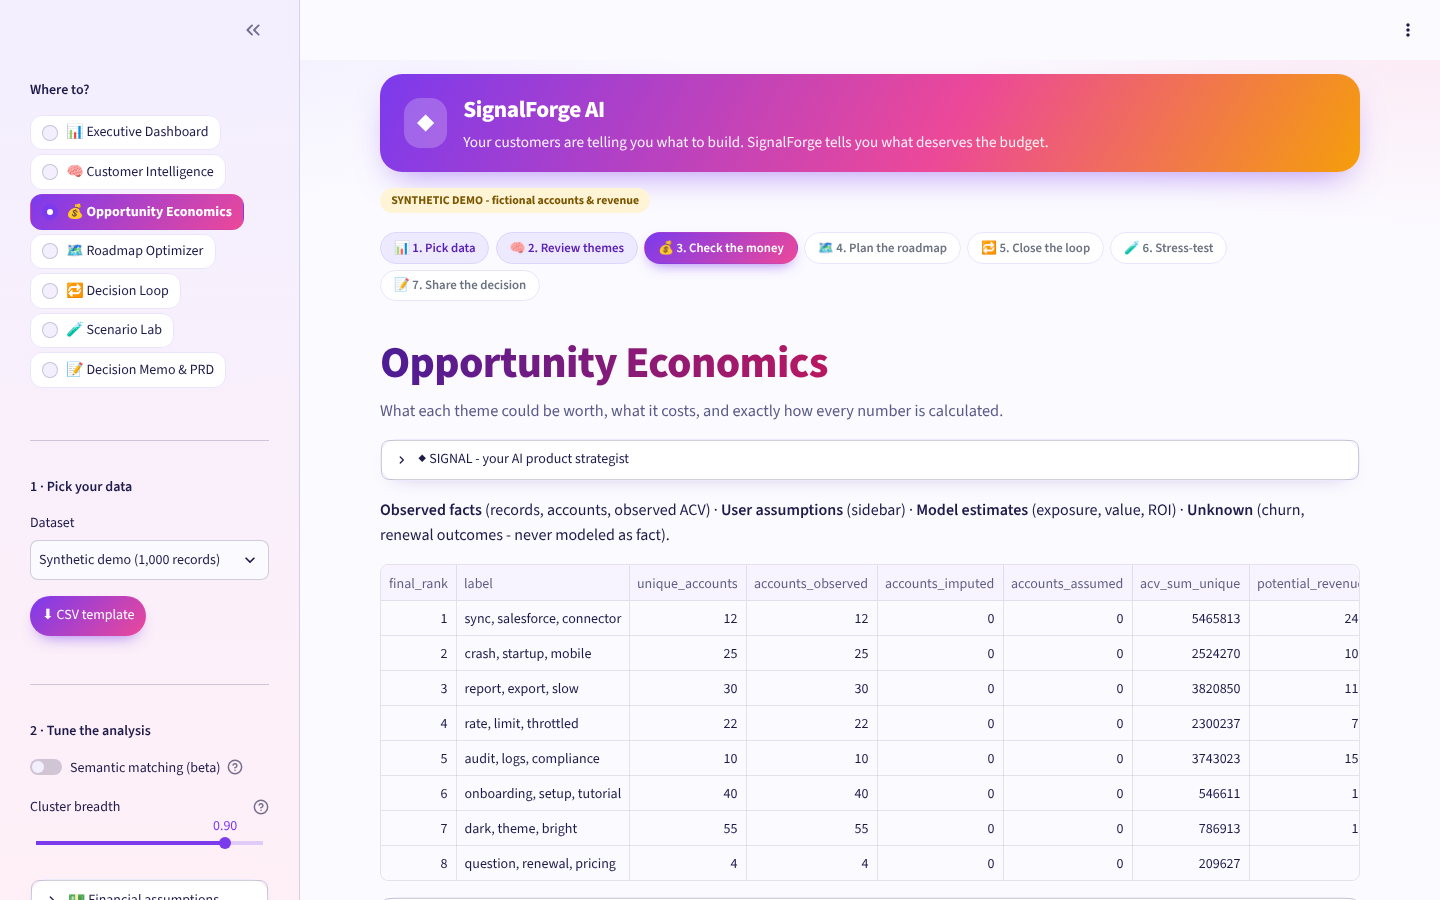
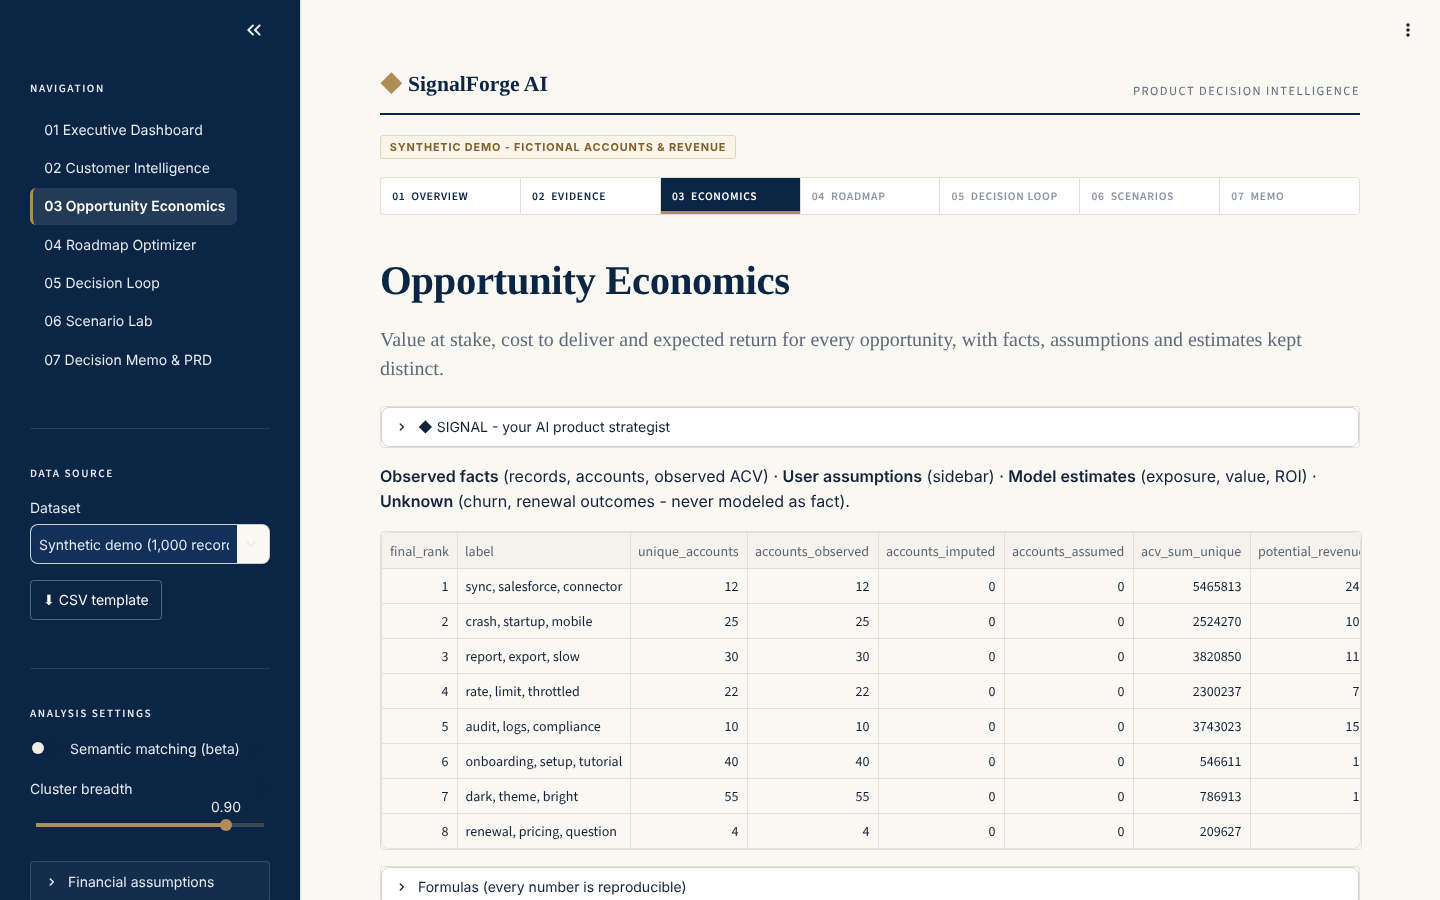
Executive UI: navy/ivory theme, serif headlines, numbered navigation, boardroom copy
Claude-Session: https://claude.ai/code/session_019GsoMYbqVDgoHLZQSKVKYG

diff --git a/app.py b/app.py
@@ -41,67 +41,88 @@ from signalforge.store import Store, StoreError, new_workspace_id, valid_workspa
 from signalforge.synthetic import generate
 
 st.set_page_config(page_title="SignalForge AI", page_icon="◆", layout="wide")
-POP = ["#7c3aed", "#ec4899", "#f59e0b", "#14b8a6", "#3b82f6", "#22c55e", "#ef4444", "#8b5cf6"]
+POP = ["#0b2545", "#b08d57", "#3e6d9c", "#8da9c4", "#5c7a6b", "#a4508b", "#c0392b", "#6b7280"]
 pio.templates["sf"] = go.layout.Template(layout=dict(
-    colorway=POP, font=dict(family="Inter, -apple-system, Segoe UI, Roboto, sans-serif", color="#1e1b4b"),
-    paper_bgcolor="rgba(0,0,0,0)", plot_bgcolor="rgba(255,255,255,.65)", title=dict(font=dict(size=16)),
-    xaxis=dict(gridcolor="#ede9fe", zerolinecolor="#ddd6fe"), yaxis=dict(gridcolor="#ede9fe", zerolinecolor="#ddd6fe"),
-    legend=dict(bgcolor="rgba(255,255,255,.6)"), margin=dict(l=10, r=10, t=48, b=10)))
+    colorway=POP, font=dict(family="Inter, -apple-system, Segoe UI, Roboto, sans-serif", color="#13233a", size=13),
+    paper_bgcolor="rgba(0,0,0,0)", plot_bgcolor="rgba(0,0,0,0)",
+    title=dict(font=dict(family="Newsreader, Georgia, serif", size=18, color="#0b2545")),
+    xaxis=dict(gridcolor="#e8e4da", zerolinecolor="#d8d2c4", linecolor="#d8d2c4"),
+    yaxis=dict(gridcolor="#e8e4da", zerolinecolor="#d8d2c4", linecolor="#d8d2c4"),
+    legend=dict(bgcolor="rgba(0,0,0,0)"), margin=dict(l=10, r=10, t=52, b=10)))
 pio.templates.default = "plotly_white+sf"
 st.markdown("""<style>
-:root{--p:#7c3aed;--pk:#ec4899;--am:#f59e0b;--tl:#14b8a6;--bl:#3b82f6;--ink:#1e1b4b}
-.stApp{background:radial-gradient(1100px 480px at 8% -8%,#ede9fe 0%,transparent 60%),radial-gradient(900px 420px at 100% 0%,#fce7f3 0%,transparent 55%),#fbfaff}
-.block-container{padding-top:3.6rem;max-width:1360px}
-h1,h2,h3{letter-spacing:-.015em;color:var(--ink)}
-.stApp h1{font-weight:800;background:linear-gradient(90deg,#4c1d95,#be185d);-webkit-background-clip:text;background-clip:text;color:transparent;width:fit-content}
-[data-testid=stSidebar]{background:linear-gradient(180deg,#f3efff 0%,#fff0f7 100%);border-right:1px solid #ede9fe}
-.sf-hero{display:flex;align-items:center;gap:1rem;color:#fff;border-radius:22px;padding:1.1rem 1.5rem;margin:0 0 .9rem;
- background:linear-gradient(120deg,#7c3aed 0%,#ec4899 58%,#f59e0b 100%);box-shadow:0 14px 34px -14px rgba(124,58,237,.6)}
-.sf-logo{font-size:2rem;line-height:1;background:rgba(255,255,255,.22);border-radius:16px;padding:.55rem .75rem}
-.sf-brand{font-size:1.45rem;font-weight:800;letter-spacing:-.02em}.sf-tag{opacity:.93;font-size:.95rem;margin-top:.1rem}
-.sf-steps{display:flex;flex-wrap:wrap;gap:.4rem;margin:.2rem 0 .9rem}
-.sf-step{padding:.28rem .8rem;border-radius:999px;font-size:.8rem;font-weight:600;background:#fff;color:#6b7280;border:1px solid #e9e5ff}
-.sf-step.done{background:#ede9fe;color:#5b21b6;border-color:#ddd6fe}
-.sf-step.on{background:linear-gradient(135deg,#7c3aed,#ec4899);color:#fff;border-color:transparent;box-shadow:0 6px 14px -6px rgba(124,58,237,.7)}
-.sf-blurb{color:#5b5b8a;font-size:1.02rem;margin:-.4rem 0 .9rem}
-[data-testid=stMetric]{background:#fff;border-radius:18px;padding:.85rem 1rem;border-top:5px solid var(--p);
- box-shadow:0 10px 24px -14px rgba(76,29,149,.45);transition:transform .15s ease,box-shadow .15s ease}
-[data-testid=stMetric]:hover{transform:translateY(-3px);box-shadow:0 16px 28px -14px rgba(76,29,149,.55)}
-[data-testid=stColumn]:nth-child(6n+2) [data-testid=stMetric]{border-top-color:var(--pk)}
-[data-testid=stColumn]:nth-child(6n+3) [data-testid=stMetric]{border-top-color:var(--am)}
-[data-testid=stColumn]:nth-child(6n+4) [data-testid=stMetric]{border-top-color:var(--tl)}
-[data-testid=stColumn]:nth-child(6n+5) [data-testid=stMetric]{border-top-color:var(--bl)}
-[data-testid=stColumn]:nth-child(6n+6) [data-testid=stMetric]{border-top-color:#22c55e}
-[data-testid=stMetricValue]{font-size:1.5rem;font-weight:800;color:var(--ink)}
-[data-testid=stMetricLabel]{color:#6b6b99;font-weight:600}
-.stButton button,.stDownloadButton button{border-radius:999px;border:0;font-weight:650;color:#fff;
- background:linear-gradient(135deg,#7c3aed,#ec4899);box-shadow:0 8px 16px -8px rgba(124,58,237,.7);transition:transform .12s ease,filter .12s ease}
-.stButton button p,.stDownloadButton button p{color:#fff}
-.stButton button:hover,.stDownloadButton button:hover{transform:translateY(-2px);filter:brightness(1.07);color:#fff}
-[class*="st-key-q_"] button{background:#fff;color:#5b21b6;border:1px solid #ddd6fe;box-shadow:none;font-weight:600}
-[class*="st-key-q_"] button p{color:#5b21b6}
-[class*="st-key-next_"] button{background:linear-gradient(135deg,#14b8a6,#3b82f6)}
-[data-testid=stExpander]{background:#fff;border-radius:16px;border:1px solid #ede9fe;box-shadow:0 8px 20px -16px rgba(76,29,149,.5)}
-[data-testid=stVerticalBlockBorderWrapper]:has(> div > [data-testid=stVerticalBlock] .sf-card){border-radius:18px}
-div[data-testid=stVerticalBlockBorderWrapper]{border-radius:18px}
-[data-testid=stChatMessage]{border-radius:16px;background:#fff;border:1px solid #f1ecff}
-[data-testid=stSidebar] [data-testid=stRadio] label{background:#fff;border:1px solid #e9e5ff;border-radius:12px;padding:.35rem .7rem;margin-bottom:.25rem;width:100%}
-[data-testid=stSidebar] [data-testid=stRadio] label:has(input:checked){background:linear-gradient(135deg,#7c3aed,#ec4899);border-color:transparent}
-[data-testid=stSidebar] [data-testid=stRadio] label:has(input:checked) p{color:#fff;font-weight:700}
+@import url('https://fonts.googleapis.com/css2?family=Inter:wght@400;500;600;700&family=Newsreader:opsz,wght@6..72,500;6..72,600&display=swap');
+:root{--navy:#0b2545;--ink:#13233a;--muted:#5f6b7a;--line:#e3ded3;--paper:#faf8f3;--gold:#b08d57;--card:#ffffff}
+html,body,.stApp,.stMarkdown,p,li,label,button,input,textarea{font-family:Inter,-apple-system,"Segoe UI",Roboto,sans-serif}
+.stApp{background:var(--paper)}
+header[data-testid=stHeader]{background:transparent}
+.block-container{padding-top:3.2rem;max-width:1240px}
+.stApp p,.stApp li{color:var(--ink);line-height:1.6}
+.stApp h1{font-family:Newsreader,Georgia,serif;font-weight:600;font-size:2.55rem;letter-spacing:-.01em;color:var(--navy);margin-bottom:.2rem}
+.stApp h2,.stApp h3{font-family:Newsreader,Georgia,serif;font-weight:600;color:var(--navy);letter-spacing:0}
+.stApp h3{font-size:1.4rem;border-top:1px solid var(--line);padding-top:1.1rem;margin-top:1.2rem}
+[data-testid=stSidebar]{background:var(--navy);border-right:0}
+[data-testid=stSidebar] *{color:#e6ebf2}
+[data-testid=stSidebar] p,[data-testid=stSidebar] label,[data-testid=stSidebar] span,[data-testid=stSidebar] small,[data-testid=stSidebar] li{color:#e6ebf2}
+[data-testid=stSidebar] [data-testid=stRadioOption]>div>div:first-child:not([data-testid=stMarkdownContainer]){display:none}
+[data-testid=stSidebar] [data-testid=stRadioOption][data-selected=true]{background:rgba(255,255,255,.1);border-left-color:var(--gold)}
+[data-testid=stSidebar] [data-testid=stRadioOption][data-selected=true] p{font-weight:600;color:#fff}
+[data-testid=stSidebar] [data-testid=stExpander]{background:rgba(255,255,255,.04);border:1px solid rgba(255,255,255,.14)}
+[data-testid=stSidebar] [data-testid=stExpander] summary:hover{background:rgba(255,255,255,.05)}
+[data-testid=stSidebar] [data-testid=stExpander] details{background:transparent}
+[data-testid=stSidebar] .stButton button,[data-testid=stSidebar] .stDownloadButton button{background:transparent;border:1px solid rgba(255,255,255,.3)}
+[data-testid=stSidebar] .stButton button:hover,[data-testid=stSidebar] .stDownloadButton button:hover{border-color:var(--gold);background:rgba(255,255,255,.06)}
+[data-testid=stSidebar] h5{font-size:.7rem!important;letter-spacing:.14em;text-transform:uppercase;color:#9fb0c6!important;font-weight:600}
+[data-testid=stSidebar] hr{border-color:rgba(255,255,255,.12)}
+[data-testid=stSidebar] [data-baseweb=select]>div,[data-testid=stSidebar] input,[data-testid=stSidebar] textarea{background:#12305a!important;border-color:#24446f!important}
+[data-testid=stSidebar] [data-testid=stRadio] label{border-radius:6px;padding:.45rem .7rem;margin-bottom:.1rem;width:100%;border-left:3px solid transparent}
+[data-testid=stSidebar] [data-testid=stRadio] label:hover{background:rgba(255,255,255,.06)}
+[data-testid=stSidebar] [data-testid=stRadio] label:has(input:checked){background:rgba(255,255,255,.1);border-left-color:var(--gold)}
+[data-testid=stSidebar] [data-testid=stRadio] label:has(input:checked) p{font-weight:600;color:#fff}
 [data-testid=stSidebar] [data-testid=stRadio] label>div:first-child{display:none}
-.sf-pill{display:inline-block;padding:.18rem .7rem;border-radius:999px;font-size:.74rem;font-weight:700;margin-right:.35rem}
-.sf-syn{background:#fff4d6;color:#7a5600}.sf-real{background:#d9f7e5;color:#116b34}.sf-warn{background:#fde2e1;color:#8a1c1c}
-.sf-banner{border:1px solid #ddd6fe;border-left:6px solid var(--p);background:linear-gradient(90deg,#f5f3ff,#fff);padding:.8rem 1.1rem;border-radius:14px;margin:.4rem 0 1rem;
- box-shadow:0 10px 22px -18px rgba(76,29,149,.6)}
-.sf-banner b{color:var(--p)}
-.sf-muted{color:#8a94a6;font-size:.85rem}
-.sf-sim{background:#e0e7ff;color:#3730a3}
-.sf-card{border-radius:16px;padding:.9rem 1.1rem;margin:.3rem 0;border:1px solid #eee}
-.sf-good{background:#ecfdf5;border-color:#a7f3d0}.sf-mid{background:#fffbeb;border-color:#fde68a}.sf-bad{background:#fff1f2;border-color:#fecdd3}
+.sf-hero{display:flex;justify-content:space-between;align-items:flex-end;border-bottom:2px solid var(--navy);padding:0 0 .7rem;margin:0 0 1.1rem}
+.sf-logo{display:none}
+.sf-brand{font-family:Newsreader,Georgia,serif;font-size:1.35rem;font-weight:600;color:var(--navy)}
+.sf-brand:before{content:"◆ ";color:var(--gold)}
+.sf-tag{font-size:.78rem;letter-spacing:.12em;text-transform:uppercase;color:var(--muted);text-align:right}
+.sf-steps{display:flex;gap:0;margin:.1rem 0 1.4rem;border:1px solid var(--line);background:var(--card);border-radius:4px;overflow:hidden}
+.sf-step{flex:1;padding:.55rem .7rem;font-size:.72rem;font-weight:600;letter-spacing:.06em;text-transform:uppercase;color:#8a93a0;
+ border-right:1px solid var(--line);white-space:nowrap;overflow:hidden;text-overflow:ellipsis}
+.sf-step:last-child{border-right:0}
+.sf-step.done{color:var(--navy)}
+.sf-step.on,.sf-step.now{background:var(--navy);color:#fff;box-shadow:inset 0 -3px 0 var(--gold)}
+.sf-blurb{font-family:Newsreader,Georgia,serif;font-size:1.25rem;color:var(--muted);margin:0 0 1.4rem;max-width:62rem;line-height:1.45}
+[data-testid=stMetric]{background:var(--card);border:1px solid var(--line);border-radius:4px;padding:1rem 1.1rem;border-top:3px solid var(--navy)}
+[data-testid=stMetricValue]{font-family:Newsreader,Georgia,serif;font-size:2rem;font-weight:600;color:var(--navy)}
+[data-testid=stMetricLabel] p{color:var(--muted);font-size:.72rem!important;letter-spacing:.1em;text-transform:uppercase;font-weight:600}
+.stButton button,.stDownloadButton button{border-radius:4px;font-weight:600;font-size:.88rem;background:var(--navy);color:#fff;border:1px solid var(--navy);box-shadow:none}
+.stButton button p,.stDownloadButton button p{color:#fff}
+.stButton button:hover,.stDownloadButton button:hover{background:#163a66;border-color:#163a66;color:#fff}
+[class*="st-key-q_"] button{background:var(--card);border:1px solid var(--line)}
+[class*="st-key-q_"] button p{color:var(--navy)}
+[class*="st-key-q_"] button:hover{border-color:var(--gold);background:var(--card)}
+[class*="st-key-next_"] button{background:transparent;border:1px solid var(--navy)}
+[class*="st-key-next_"] button p{color:var(--navy)}
+[class*="st-key-next_"] button:hover{background:var(--navy)}
+[class*="st-key-next_"] button:hover p{color:#fff}
+[data-testid=stExpander]{background:var(--card);border-radius:4px;border:1px solid var(--line)}
+div[data-testid=stVerticalBlockBorderWrapper]{border-radius:4px}
+[data-testid=stChatMessage]{border-radius:4px;background:var(--card);border:1px solid var(--line)}
+[data-testid=stDataFrame]{border:1px solid var(--line);border-radius:4px}
+.stTabs [data-baseweb=tab]{font-weight:600;color:var(--muted)}
+.stTabs [aria-selected=true]{color:var(--navy)}
+.stTabs [data-baseweb=tab-highlight]{background:var(--gold)}
+.sf-pill{display:inline-block;padding:.15rem .55rem;border-radius:3px;font-size:.68rem;font-weight:700;letter-spacing:.08em;text-transform:uppercase;margin-right:.35rem;border:1px solid}
+.sf-syn{background:#fbf5e9;color:#80612d;border-color:#e6d5b0}.sf-real{background:#eef5f0;color:#2f5d43;border-color:#c5dccd}
+.sf-warn{background:#fbefed;color:#8f2d22;border-color:#ebc6c0}.sf-sim{background:#eef2f8;color:#2d4a72;border-color:#c9d5e6}
+.sf-banner{background:var(--card);border:1px solid var(--line);border-left:3px solid var(--gold);padding:.95rem 1.2rem;border-radius:4px;margin:.4rem 0 1.2rem}
+.sf-banner b{color:var(--navy)}
+.sf-muted{color:var(--muted);font-size:.85rem}
+.sf-card{border-radius:4px;padding:1rem 1.2rem;margin:.3rem 0;border:1px solid var(--line);background:var(--card)}
+.sf-good{border-left:3px solid #2f5d43}.sf-mid{border-left:3px solid var(--gold)}.sf-bad{border-left:3px solid #8f2d22}
 </style>""", unsafe_allow_html=True)
-st.markdown('<div class="sf-hero"><div class="sf-logo">◆</div><div><div class="sf-brand">SignalForge AI</div>'
-            '<div class="sf-tag">Your customers are telling you what to build. SignalForge tells you what deserves the budget.</div></div></div>',
-            unsafe_allow_html=True)
+st.markdown('<div class="sf-hero"><div class="sf-logo">◆</div><div class="sf-brand">SignalForge AI</div>'
+            '<div class="sf-tag">Product Decision Intelligence</div></div>', unsafe_allow_html=True)
 fmt = lambda v: "n/a" if v is None or pd.isna(v) else f"${v:,.0f}"  # noqa: E731
 
 
@@ -169,11 +190,11 @@ def _on_restore() -> None:
 
 # ---------------- sidebar: data ----------------
 PAGES = ["Executive Dashboard", "Customer Intelligence", "Opportunity Economics", "Roadmap Optimizer", "Decision Loop", "Scenario Lab", "Decision Memo & PRD"]
-ICON = dict(zip(PAGES, ["📊", "🧠", "💰", "🗺", "🔁", "🧪", "📝"]))
-st.sidebar.markdown("##### Where to?")
-page = st.sidebar.radio("Navigate", PAGES, key="page", format_func=lambda n: f"{ICON[n]}  {n}", label_visibility="collapsed")
+ICON = {p: f"{i + 1:02d}" for i, p in enumerate(PAGES)}
+st.sidebar.markdown("##### Navigation")
+page = st.sidebar.radio("Navigate", PAGES, key="page", format_func=lambda n: f"{ICON[n]}   {n}", label_visibility="collapsed")
 st.sidebar.markdown("---")
-st.sidebar.markdown("##### 1 · Pick your data")
+st.sidebar.markdown("##### Data source")
 SOURCES = {"Synthetic demo (1,000 records)": "synthetic", "Public: F-Droid app reviews": "fdroid_reviews",
            "Public: Bitext support requests": "bitext_support", "Public: GitHub issues (live)": "github_issues", "Upload file": "upload"}
 src_label = st.sidebar.selectbox("Dataset", list(SOURCES), key="dataset")
@@ -244,12 +265,12 @@ is_synth = src == "synthetic"
 has_acv = ingest.df["annual_contract_value"].notna().any()
 
 st.sidebar.markdown("---")
-st.sidebar.markdown("##### 2 · Tune the analysis")
+st.sidebar.markdown("##### Analysis settings")
 semantic = st.sidebar.toggle("Semantic matching (beta)", False, key="semantic", on_change=_on_semantic,
                              help="Groups paraphrases better (held-out ARI 0.30 → 0.76 in CI) but loosens tightly-templated data "
                                   "(synthetic ARI 0.999 → 0.37 at the same settings). Downloads a ~30 MB open model once.")
 thr = st.sidebar.slider("Cluster breadth", 0.5, 0.98, 0.9, 0.01, help="Cosine distance threshold. Higher = fewer, broader themes.", key="thr")
-with st.sidebar.expander("💵 Financial assumptions", expanded=not has_acv):
+with st.sidebar.expander("Financial assumptions", expanded=not has_acv):
     if not has_acv:
         st.caption("This dataset has **no revenue**. Values below are labelled user assumptions, not facts.")
     a = Assumptions(
@@ -276,7 +297,7 @@ if st.sidebar.button("↺ Reset my session", key="reset", help="Clears data, ove
     store.reset(); ss.chat = []
     st.rerun()
 
-with st.sidebar.expander("🔑 Your workspace"):
+with st.sidebar.expander("Workspace"):
     st.code(WS, language=None)
     st.caption("Decisions, tickets, releases, outcomes and GitHub syncs are saved to this workspace. Bookmark "
                f"`?ws={WS}` or paste the key below to resume later. Hosted demo storage resets on redeploy.")
@@ -334,25 +355,25 @@ if not has_acv:
     pill += '<span class="sf-pill sf-warn">NO REVENUE DATA - $ values use your assumption</span>'
 st.markdown(pill, unsafe_allow_html=True)
 
-STEPS = ["Pick data", "Review themes", "Check the money", "Plan the roadmap", "Close the loop", "Stress-test", "Share the decision"]
+STEPS = ["Overview", "Evidence", "Economics", "Roadmap", "Decision loop", "Scenarios", "Memo"]
 BLURB = {
-    "Executive Dashboard": "The 30-second answer: what matters most right now, and why.",
-    "Customer Intelligence": "What customers are actually saying, grouped into themes you can inspect, fix and trust.",
-    "Opportunity Economics": "What each theme could be worth, what it costs, and exactly how every number is calculated.",
-    "Roadmap Optimizer": "Set your capacity and constraints; get the best-value plan and see what you are giving up.",
-    "Decision Loop": "Approve a decision, create the ticket and PRD, ship it, then measure whether it actually worked.",
-    "Scenario Lab": "Change the assumptions and watch the decision hold up (or fall apart).",
-    "Decision Memo & PRD": "Everything you need to take this to the room: memo, PRD, evidence, audit trail.",
+    "Executive Dashboard": "Where product investment will create the most value this quarter, and the evidence behind each call.",
+    "Customer Intelligence": "Customer feedback consolidated into evidence-linked themes, each traceable to its source records and open to human review.",
+    "Opportunity Economics": "Value at stake, cost to deliver and expected return for every opportunity, with facts, assumptions and estimates kept distinct.",
+    "Roadmap Optimizer": "A capacity-feasible portfolio that maximises value within your constraints, alongside the trade-offs it implies.",
+    "Decision Loop": "From approved decision to engineering ticket, release and measured outcome, with forecast compared to actual.",
+    "Scenario Lab": "Stress-test the recommendation against shocks and uncertainty before committing capital.",
+    "Decision Memo & PRD": "Board-ready materials: executive memo, PRD, evidence appendix and a complete decision audit trail.",
 }
 cur = PAGES.index(page)
 st.markdown('<div class="sf-steps">' + "".join(
-    f'<span class="sf-step {"on" if i == cur else "done" if i < cur else ""}">{ICON[PAGES[i]]} {i + 1}. {STEPS[i]}</span>'
+    f'<span class="sf-step {"on" if i == cur else "done" if i < cur else ""}">{ICON[PAGES[i]]}&nbsp;&nbsp;{STEPS[i]}</span>'
     for i in range(len(PAGES))) + "</div>", unsafe_allow_html=True)
 
 
 def next_step() -> None:
     if cur < len(PAGES) - 1:
-        st.button(f"Next: {PAGES[cur + 1]} →", on_click=_go, args=(PAGES[cur + 1],), key=f"next_{cur}")
+        st.button(f"Continue to {PAGES[cur + 1]}  →", on_click=_go, args=(PAGES[cur + 1],), key=f"next_{cur}")
 
 # ---------------- roadmap constraints (shared by optimizer, copilot, memo) ----------------
 cap_default = float(round(ranked["effort_weeks"].sum() * 0.6, 1)) or 10.0
@@ -390,7 +411,7 @@ def signal_panel(selected: int | None = None) -> None:
         for qq, md, table in ss.chat[:3]:
             with st.chat_message("user"):
                 st.markdown(qq)
-            with st.chat_message("assistant", avatar="✨"):
+            with st.chat_message("assistant", avatar=":material/insights:"):
                 st.markdown(md)
                 if table:
                     st.dataframe(pd.DataFrame(table), width="stretch", hide_index=True)
@@ -416,7 +437,7 @@ def insight_banner() -> str:
 if page == "Executive Dashboard":
     st.title("Executive Dashboard")
     st.markdown(f'<div class="sf-blurb">{BLURB["Executive Dashboard"]}</div>', unsafe_allow_html=True)
-    st.markdown('<div class="sf-banner">🔁 <b>Full loop:</b> evidence-linked themes → revenue economics → capacity-feasible roadmap → '
+    st.markdown('<div class="sf-banner"><b>Operating model.</b> evidence-linked themes → revenue economics → capacity-feasible roadmap → '
                 'human-approved decision → ticket + PRD → release → measured outcome. Run it in <b>Decision Loop</b>.</div>', unsafe_allow_html=True)
     signal_panel()
     if not ss.onboarded:
@@ -442,9 +463,8 @@ if page == "Executive Dashboard":
         st.subheader("Recommended executive actions")
         for r in ranked.head(3).itertuples():
             with st.container(border=True):
-                badge = {"sufficient": "🟢", "directional": "🟡", "insufficient": "🔴"}[r.evidence_sufficiency]
-                medal = {1: "🥇", 2: "🥈", 3: "🥉"}.get(int(r.final_rank), "🔹")
-                st.markdown(f"{medal} **#{r.final_rank} · {r.label}** · {r.product_area} · {badge} evidence {r.evidence_sufficiency}")
+                badge = {"sufficient": "●", "directional": "◐", "insufficient": "○"}[r.evidence_sufficiency]
+                st.markdown(f"**{int(r.final_rank):02d} — {r.label}** · {r.product_area} · {badge} evidence {r.evidence_sufficiency}")
                 st.write(f"{r.unique_accounts} accounts · exposure {fmt(r.potential_revenue_exposure)} · net {fmt(r.net_opportunity_value)} · "
                          f"{r.effort_weeks:.1f} pw · confidence {r.confidence:.2f} · trend {r.trend_status}")
         if len(ranked) > 1:
@@ -716,7 +736,7 @@ elif page == "Decision Loop":
     reached = {"proposed": 1, "approved": 2, "rejected": 1, "in_delivery": 3, "released": 4, "measured": 5, "reverted": 1}
     cur = max([reached[d_.status] for d_ in decs], default=0)
     st.markdown('<div class="sf-steps">' + "".join(
-        f'<div class="sf-step {"done" if i < cur else "now" if i == cur else ""}">{"✅ " if i < cur else ""}{s_}</div>'
+        f'<div class="sf-step {"done" if i < cur else "now" if i == cur else ""}">{"✓ " if i < cur else ""}{s_}</div>'
         for i, s_ in enumerate(stages)) + "</div>", unsafe_allow_html=True)
     st.caption(f"Workspace `{WS}` · stored durably in SQLite ({'file' if DB.durable else 'memory'}). Every action below is "
                "permission-checked, audited and reversible.")
@@ -765,9 +785,9 @@ elif page == "Decision Loop":
         note = st.text_input("Approval / rejection note (required)", key="loop_note")
         b1, b2, b3 = st.columns(3)
         act = None
-        if b1.button("✅ Approve", key="b_approve", disabled=d.status != "proposed"):
+        if b1.button("Approve decision", key="b_approve", disabled=d.status != "proposed"):
             act = ("approved", note)
-        if b2.button("✖ Reject", key="b_reject", disabled=d.status != "proposed"):
+        if b2.button("Reject", key="b_reject", disabled=d.status != "proposed"):
             act = ("rejected", note)
         if b3.button("↩ Revert decision", key="b_revert", disabled=d.status in ("proposed", "rejected", "reverted"),
                      help="Reversible: moves it to 'reverted'; history is kept in the audit log"):
@@ -864,7 +884,7 @@ elif page == "Decision Loop":
                 st.warning(res["explanation"])
             else:
                 vcls = {"worked": "sf-good", "improved_below_target": "sf-mid", "inconclusive": "sf-mid"}.get(res["verdict"], "sf-bad")
-                emoji = {"worked": "🎉", "improved_below_target": "📈", "inconclusive": "🤔", "regressed": "📉", "guardrail_breached": "⚠"}
+                emoji = {"worked": "✓", "improved_below_target": "↗", "inconclusive": "?", "regressed": "↘", "guardrail_breached": "!"}
                 st.markdown(f'<div class="sf-card {vcls}"><b>{emoji.get(res["verdict"], "")} Verdict: {res["verdict"].replace("_", " ")}</b> '
                             f'· {res.get("data_label", label)}<br>{res["forecast"]["summary"]}</div>', unsafe_allow_html=True)
                 g = pd.DataFrame({"window": ["28 days before", "28 days after"], "adoption": [res["adoption_pre"], res["adoption_post"]]})

diff --git a/tests/e2e/test_browser_journey.py b/tests/e2e/test_browser_journey.py
@@ -179,7 +179,7 @@ def test_closed_loop_decision_to_outcome(base_url, browser, tmp_path):
     _wait(page, "Human approval")
     page.get_by_label("Approval / rejection note (required)").fill("E2E approved"); page.keyboard.press("Enter")
     page.wait_for_timeout(800)
-    page.get_by_role("button", name="✅ Approve").click()
+    page.get_by_role("button", name="Approve decision").click()
     page.get_by_role("button", name="Create ticket").wait_for(timeout=60_000)
     page.get_by_role("button", name="Create ticket").click()
     _wait(page, "Ticket #")
